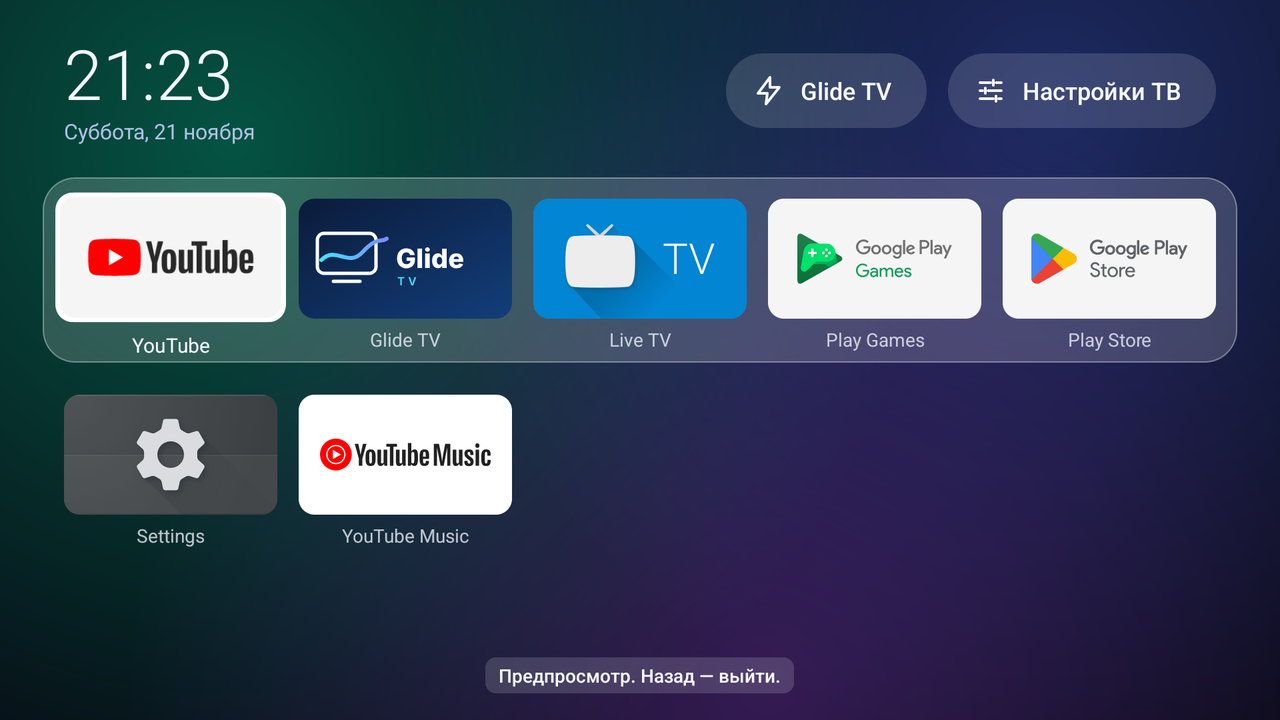
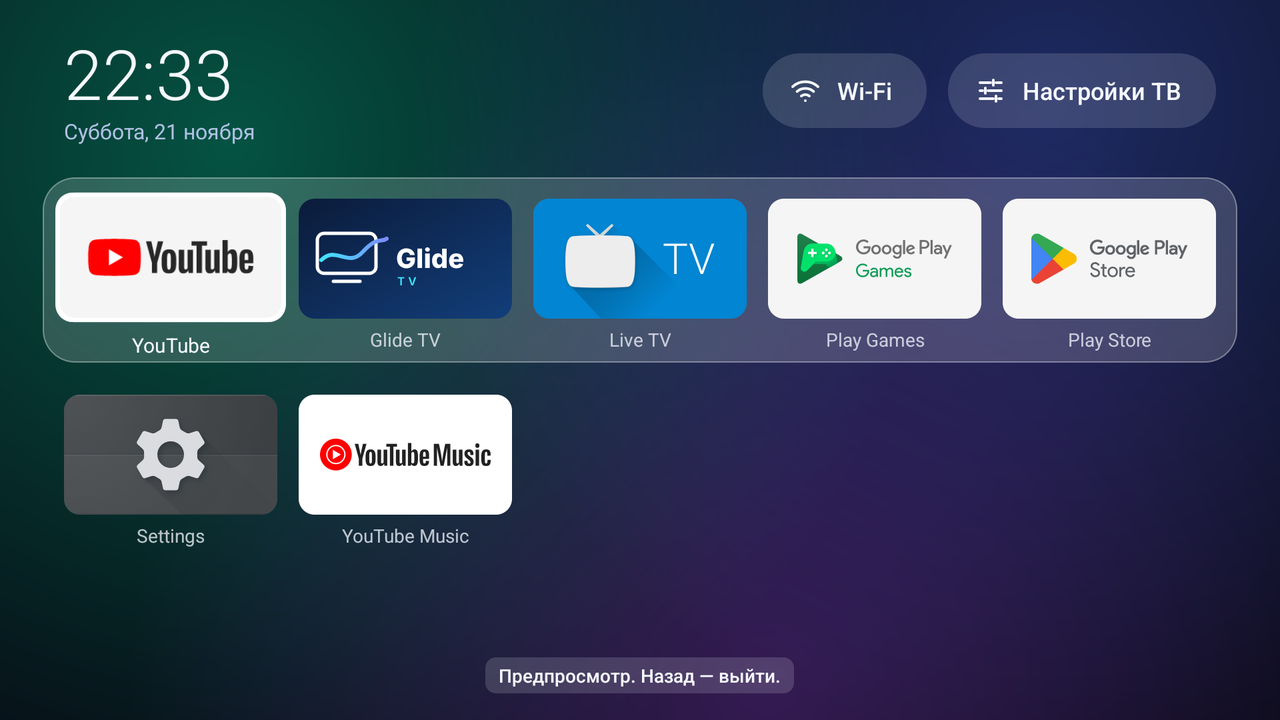
Home screen: never disable the stock launcher when the setup wizard would take Home
First report from a real Google TV: after `pm disable-user` on
com.google.android.apps.tv.launcherx, Home did not go to Glide TV, and the
rollback re-enabled the launcher. On Google TV the setup wizard
(com.google.android.tungsten.setupwraith) answers HOME at filter priority 1
and wins over any sideloaded launcher; set-home-activity prints Success and
changes nothing. With the wizard as Home the system can crash-loop, and a
reboot in that state has ended in a factory reset on some sets (CleanYourTV,
docs/TROUBLESHOOTING.md). So the launcher must not be disabled even for the
half second before the rollback.

- HomeSwitcher: before any change, look for other system apps that claim HOME
  at priority > 0; if there is one, return BLOCKED and change nothing
- the "Home screen" page explains the block instead of offering the dialog
- the log names who got Home and lists the HOME claimants with priorities

Also on the home screen itself:
- the "Glide TV" header button is replaced by a Wi-Fi button (network settings)
- Glide TV's own tile can no longer be hidden: it is the way back to
  "Put it back"

README and DESIGN.md updated, preset screenshots retaken.

Changed region(s): [[0.5625, 0.0611, 0.7188, 0.1833], [0.0625, 0.0611, 0.1562, 0.1528]]

diff --git a/app/src/main/java/app/glidetv/home/HomeSwitcher.kt b/app/src/main/java/app/glidetv/home/HomeSwitcher.kt
@@ -24,6 +24,11 @@ data class HomeStatus(
     val disabledStockLabel: String,
     /** Есть стандартный лаунчер, который можно отключить, чтобы Home достался Glide TV. */
     val stockCanBeDisabled: Boolean,
+    /**
+     * Название системного приложения, которое заберёт Home, если отключить стандартный лаунчер
+     * (на Google TV это мастер первой настройки). Пусто — такого нет.
+     */
+    val blockedBy: String,
 )
 
 enum class SwitchResult {
@@ -35,6 +40,11 @@ enum class SwitchResult {
     NEED_PICKER,
     /** Стандартный лаунчер сильнее любого выбора пользователя: нужен «Турбо». Ничего не изменено. */
     NEED_TURBO,
+    /**
+     * Отключать стандартный лаунчер нельзя: Home достался бы не Glide TV, а другому системному приложению
+     * (мастеру настройки Google TV, который на этом месте зацикливает систему). Ничего не изменено.
+     */
+    BLOCKED,
     FAILED,
 }
 
@@ -96,6 +106,27 @@ class HomeSwitcher(
             pkg != null && pkg != app.packageName && !CoreGuard.isCore(pkg) && it.priority > 0
         }
 
+    /**
+     * Системные приложения, которые заберут Home, как только стандартный лаунчер будет отключён: у их фильтра
+     * приоритет выше нуля, а у экрана Glide TV он всегда ноль (Android учитывает приоритет только у приложений
+     * из прошивки). На Google TV это мастер настройки com.google.android.tungsten.setupwraith: его
+     * RecoveryActivity на месте Home зацикливает system_server, а перезагрузка в таком состоянии на части ТВ
+     * кончается сбросом к заводским настройкам (разборы CleanYourTV, TROUBLESHOOTING.md).
+     * set-home-activity при этом отвечает Success и ничего не меняет.
+     */
+    private fun blockers(stock: String?): List<String> =
+        pm.queryIntentActivities(homeIntent(), 0)
+            .filter { it.priority > 0 }
+            .mapNotNull { it.activityInfo?.packageName }
+            .filter { it != app.packageName && it != stock && !CoreGuard.isCore(it) }
+            .distinct()
+
+    /** Все, кто сейчас претендует на Home, с приоритетами — для журнала. */
+    private fun claimants(): String =
+        pm.queryIntentActivities(homeIntent(), 0).joinToString {
+            "${it.activityInfo?.packageName}/${it.activityInfo?.name?.substringAfterLast('.')} p=${it.priority}"
+        }
+
     private fun glideRegistered(): Boolean =
         pm.queryIntentActivities(homeIntent(), 0).any { it.activityInfo?.packageName == app.packageName }
 
@@ -121,12 +152,15 @@ class HomeSwitcher(
         val active = isAliasEnabled()
         val glide = isGlide(now)
         val disabled = config.disabledStock
+        val stock = stockPackage()
+        val blocker = if (active && !glide && disabled.isEmpty() && stock != null) blockers(stock).firstOrNull() else null
         return HomeStatus(
             active = active,
             glideIsHome = glide,
             currentLabel = if (isChooser(now)) "" else label(now!!.packageName),
             disabledStockLabel = if (disabled.isEmpty()) "" else label(disabled),
-            stockCanBeDisabled = active && !glide && disabled.isEmpty() && stockPackage() != null,
+            stockCanBeDisabled = active && !glide && disabled.isEmpty() && stock != null && blocker == null,
+            blockedBy = blocker?.let { label(it) }.orEmpty(),
         )
     }
 
@@ -164,6 +198,12 @@ class HomeSwitcher(
         val pkg = stockPackage() ?: return SwitchResult.FAILED
         if (!isAliasEnabled() || !glideRegistered()) return SwitchResult.FAILED
         if (!PackageName.isValid(pkg) || pkg == app.packageName || CoreGuard.isCore(pkg)) return SwitchResult.FAILED
+        // Проверка до любых изменений: если Home заберёт не Glide TV, лаунчер нельзя отключать даже на секунду
+        val blockers = blockers(pkg)
+        if (blockers.isNotEmpty()) {
+            Logx.w("Главный экран: $pkg не отключаем — Home заберёт ${blockers.joinToString()}. Претенденты: ${claimants()}")
+            return SwitchResult.BLOCKED
+        }
 
         // Запись до команды: даже если процесс умрёт посередине, «Вернуть как было» знает, что включать
         config.disabledStock = pkg
@@ -175,9 +215,11 @@ class HomeSwitcher(
             return SwitchResult.DONE
         }
         // Home не достался Glide TV — возвращаем лаунчер, чтобы ТВ не остался без главного экрана
+        val got = resolved()?.flattenToShortString() ?: "никто"
+        val seen = claimants()
         engine.run(ShellCmd.Enable(PackageName(pkg)))
         if (isEnabled(pkg)) config.disabledStock = ""
-        Logx.w("Главный экран: $pkg отключить не удалось, откат")
+        Logx.w("Главный экран: $pkg отключён, но Home достался $got — откат. Претенденты: $seen")
         return SwitchResult.FAILED
     }
 

diff --git a/app/src/main/java/app/glidetv/ui/home/HomeActivity.kt b/app/src/main/java/app/glidetv/ui/home/HomeActivity.kt
@@ -166,8 +166,9 @@ object HomeApps {
     }
 
     /** Делит приложения на ряд избранного и остальные. Скрытые не попадают никуда. */
-    fun arrange(all: List<HomeApp>, config: HomeConfig, columns: Int): Pair<List<HomeApp>, List<HomeApp>> {
-        val hidden = config.hidden
+    fun arrange(all: List<HomeApp>, config: HomeConfig, columns: Int, self: String): Pair<List<HomeApp>, List<HomeApp>> {
+        // Сам Glide TV скрыть нельзя: его плитка — дорога к настройкам экрана и к «Вернуть как было»
+        val hidden = config.hidden - self
         val visible = all.filter { it.pkg !in hidden }.sortedBy { it.label.lowercase(Locale.ROOT) }
         val chosen = config.favorites
         val favorites = if (chosen.isEmpty()) {
@@ -408,7 +409,7 @@ class HomeActivity : Activity() {
 
         val layout = config.preset.layout
         val columns = config.columns
-        val (dock, rest) = HomeApps.arrange(apps, config, columns)
+        val (dock, rest) = HomeApps.arrange(apps, config, columns, packageName)
         firstPkg = (dock.firstOrNull() ?: rest.firstOrNull())?.pkg
         root.rowLock = layout != HomeLayout.LIST
 
@@ -599,13 +600,14 @@ class HomeActivity : Activity() {
         pills(this)
     }
 
-    /** Две кнопки, которые есть в любой раскладке: открыть Glide TV и настройки ТВ. */
+    /**
+     * Две кнопки, которые есть в любой раскладке: сеть Wi-Fi и настройки ТВ.
+     * Сам Glide TV открывается своей плиткой среди приложений (скрыть её нельзя).
+     */
     private fun pills(parent: LinearLayout) {
-        val glide = pill(getString(R.string.app_name), R.drawable.ic_bolt) {
-            if (preview) leavePreview() else open(Intent(this, MainActivity::class.java))
-        }
-        firstPill = glide
-        parent.addView(glide, LinearLayout.LayoutParams(WRAP, WRAP).apply { rightMargin = dp(16) })
+        val wifi = pill(getString(R.string.home_wifi), R.drawable.ic_wifi) { openWifi() }
+        firstPill = wifi
+        parent.addView(wifi, LinearLayout.LayoutParams(WRAP, WRAP).apply { rightMargin = dp(16) })
         parent.addView(pill(getString(R.string.home_tv_settings), R.drawable.ic_settings) {
             open(Intent(Settings.ACTION_SETTINGS))
         }, LinearLayout.LayoutParams(WRAP, WRAP))
@@ -802,6 +804,13 @@ class HomeActivity : Activity() {
 
     // ───────────────────────────── Действия ─────────────────────────────
 
+    /** Экран сети: на ТВ это «Сеть и Интернет». Нет такого экрана в прошивке — открываем обычные настройки. */
+    private fun openWifi() {
+        val wifi = Intent(Settings.ACTION_WIFI_SETTINGS)
+        val target = if (wifi.resolveActivity(packageManager) != null) wifi else Intent(Settings.ACTION_SETTINGS)
+        open(target, getString(R.string.home_wifi))
+    }
+
     private fun open(intent: Intent, label: String = "") {
         runCatching { startActivity(intent.addFlags(Intent.FLAG_ACTIVITY_NEW_TASK)) }.onFailure {
             Toast.makeText(this, getString(R.string.home_cant_open, label), Toast.LENGTH_SHORT).show()
@@ -810,7 +819,7 @@ class HomeActivity : Activity() {
 
     /** Меню приложения (удержание OK или кнопка Menu): избранное, порядок, скрыть, сведения. */
     private fun showMenu(app: HomeApp) {
-        val (dock, _) = HomeApps.arrange(apps, config, config.columns)
+        val (dock, _) = HomeApps.arrange(apps, config, config.columns, packageName)
         // Пока пользователь ничего не выбирал, избранное — это автоматически собранный ряд
         val favorites = config.favorites.filter { it != HomeApps.NONE }.ifEmpty {
             if (config.favorites.isEmpty()) dock.map { it.pkg } else emptyList()
@@ -832,9 +841,11 @@ class HomeActivity : Activity() {
             // В начало ряда: в ряд помещается столько приложений, сколько колонок, и добавленное должно быть видно
             items += getString(R.string.home_menu_fav_add) to { save(listOf(app.pkg) + favorites) }
         }
-        items += getString(R.string.home_menu_hide) to {
-            if (index >= 0) save(favorites - app.pkg)
-            config.hidden = config.hidden + app.pkg
+        if (app.pkg != packageName) {
+            items += getString(R.string.home_menu_hide) to {
+                if (index >= 0) save(favorites - app.pkg)
+                config.hidden = config.hidden + app.pkg
+            }
         }
         items += getString(R.string.home_menu_info) to {
             open(Intent(Settings.ACTION_APPLICATION_DETAILS_SETTINGS, Uri.parse("package:" + app.pkg)), app.label)

diff --git a/app/src/main/java/app/glidetv/ui/HomeScreen.kt b/app/src/main/java/app/glidetv/ui/HomeScreen.kt
@@ -191,6 +191,7 @@ class HomeScreen(activity: MainActivity) : Screen(activity) {
                 else -> string(R.string.home_current_other, s.currentLabel)
             })
             if (s.active && !s.glideIsHome) append("\n").append(string(R.string.home_active_not_home))
+            if (s.blockedBy.isNotEmpty()) append("\n").append(string(R.string.home_blocked, s.blockedBy))
             if (s.disabledStockLabel.isNotEmpty()) append("\n").append(string(R.string.home_stock_disabled, s.disabledStockLabel))
         }
 
@@ -265,12 +266,16 @@ class HomeScreen(activity: MainActivity) : Screen(activity) {
                         status.warn(string(R.string.home_need_turbo))
                     }
                 }
-                SwitchResult.FAILED -> status.error(string(R.string.home_failed))
+                // apply() ничего не отключает, поэтому BLOCKED не возвращает; ветка нужна для полноты when
+                SwitchResult.BLOCKED, SwitchResult.FAILED -> status.error(string(R.string.home_failed))
             }
             setBusy(false)
             render()
-            // На Android TV так бывает почти всегда: сразу предлагаем второй шаг, а не оставляем искать кнопку
-            if (offerStock && stockRow.visibility == View.VISIBLE) confirmDisableStock()
+            // На Android TV так бывает почти всегда: сразу предлагаем второй шаг, а не оставляем искать кнопку.
+            // Если второй шаг опасен (Home забрал бы мастер настройки Google TV), вместо окна — объяснение.
+            val blockedBy = switcher.status().blockedBy
+            if (offerStock && blockedBy.isNotEmpty()) status.warn(string(R.string.home_blocked, blockedBy))
+            else if (offerStock && stockRow.visibility == View.VISIBLE) confirmDisableStock()
         }
     }
 
@@ -306,6 +311,7 @@ class HomeScreen(activity: MainActivity) : Screen(activity) {
         activity.scope.launch {
             when (switcher.disableStock()) {
                 SwitchResult.DONE -> status.success(string(R.string.home_done))
+                SwitchResult.BLOCKED -> status.warn(string(R.string.home_blocked, switcher.status().blockedBy))
                 else -> status.error(string(R.string.home_failed))
             }
             setBusy(false)

diff --git a/docs/DESIGN.md b/docs/DESIGN.md
@@ -55,6 +55,8 @@
 - На экране «Экран ТВ» настройки, которые в раскладке пресета ничего не меняют (колонки в списке, подписи
   вне сетки и рядов), выключены, но фокус на них остаётся, а под ними появляется пояснение.
 - Подпись у приложения занимает место всегда, даже скрытая: ряды не прыгают при смене фокуса.
+- В шапке две кнопки: Wi-Fi (экран сети) и настройки ТВ. Кнопки «Glide TV» нет: приложение открывается своей
+  плиткой, и скрыть её с экрана нельзя — иначе до «Вернуть как было» было бы не добраться.
 - Экран — и Home, и предпросмотр. Home закрыть нельзя (система откроет его снова), поэтому выход
   из предпросмотра — это запуск окна Glide TV, а `finish()` только если экран не назначен главным.
 
